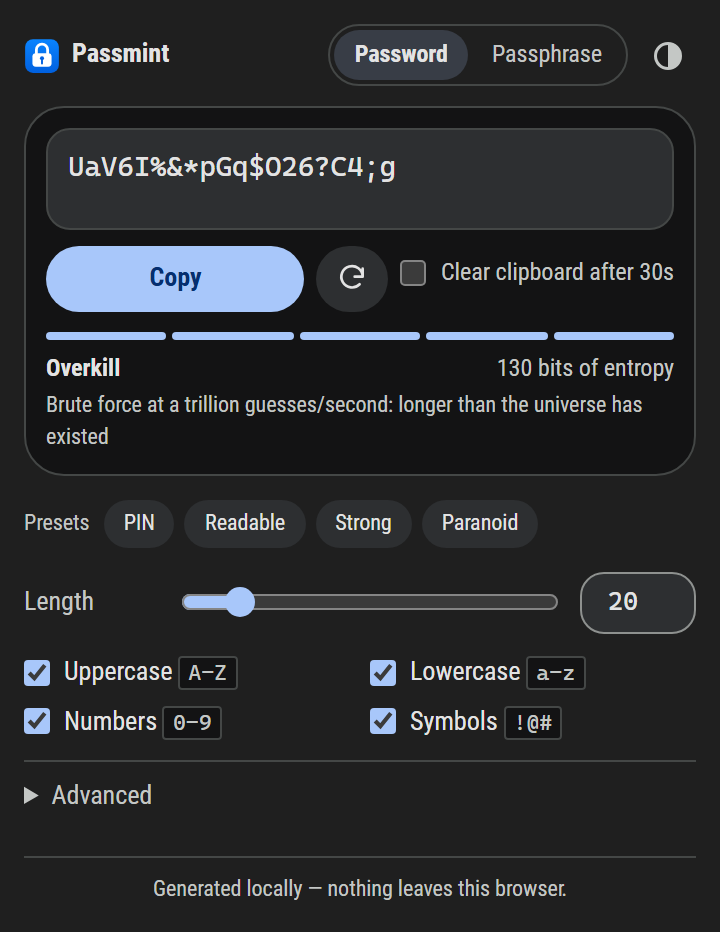
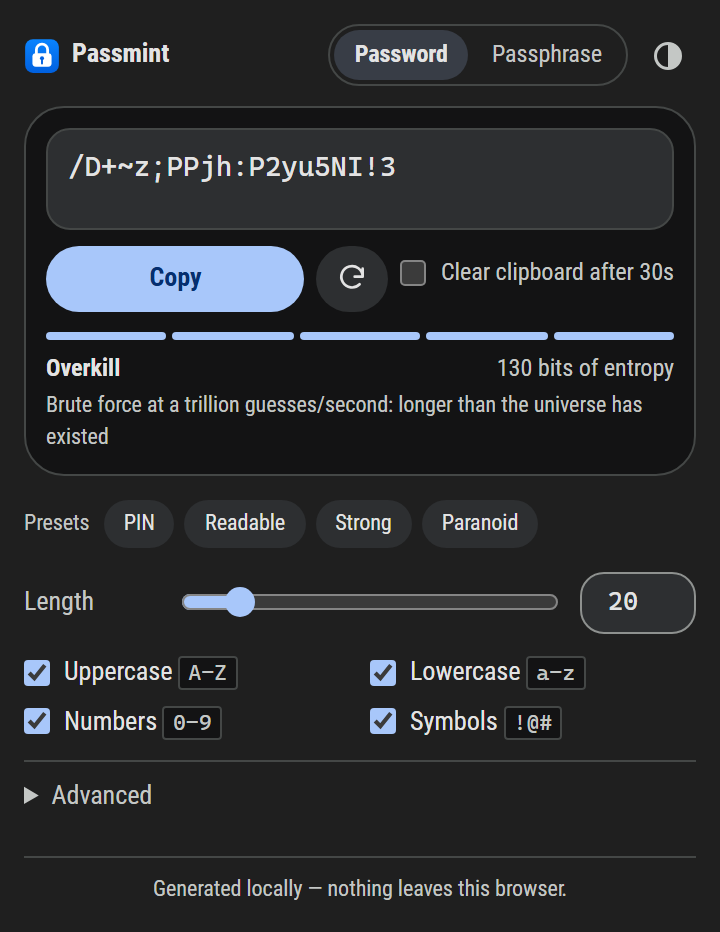
Add Edge, Brave and Opera GX screenshots (#44)

Changed region(s): [[0.0917, 0.1556, 0.55, 0.2178]]

diff --git a/README.md b/README.md
@@ -42,6 +42,14 @@ current Firefox theme. None of the four carry an install-time warning, and
 | :---: | :---: | :---: |
 | ![Passmint in Chrome, light](docs/screenshots/chrome-light.png) | ![Passmint in Chrome, dark](docs/screenshots/chrome-dark.png) | ![Passmint passphrase generator in Chrome, dark](docs/screenshots/chrome-passphrase.png) |
 
+| Edge, light | Edge, dark | Brave, light |
+| :---: | :---: | :---: |
+| ![Passmint in Edge, light](docs/screenshots/edge-light.png) | ![Passmint in Edge, dark](docs/screenshots/edge-dark.png) | ![Passmint in Brave, light](docs/screenshots/brave-light.png) |
+
+| Brave, dark | Opera GX, light | Opera GX, dark |
+| :---: | :---: | :---: |
+| ![Passmint in Brave, dark](docs/screenshots/brave-dark.png) | ![Passmint in Opera GX, light](docs/screenshots/opera-gx-light.png) | ![Passmint in Opera GX, dark](docs/screenshots/opera-gx-dark.png) |
+
 ## Features
 
 **Two modes**

diff --git a/CLAUDE.md b/CLAUDE.md
@@ -43,6 +43,6 @@ above on every PR.
 - Permissions are `storage`, `clipboardWrite`, `alarms`, `theme`; keep README's
   permission list in step with `manifest.json`.
 - README test counts (`npm test`, `test:popup`) go stale; update on change.
-- Chrome screenshots: `node scripts/chrome-screenshots.mjs` regenerates `docs/screenshots/chrome-*.png`.
+- Chrome screenshots: `node scripts/chrome-screenshots.mjs` regenerates the Chromium screenshots in `docs/screenshots/`.
 - README screenshots live in `docs/screenshots/` (360px popup, real popup
   rendered in headless Firefox/Waterfox with `browser.storage` stubbed).
